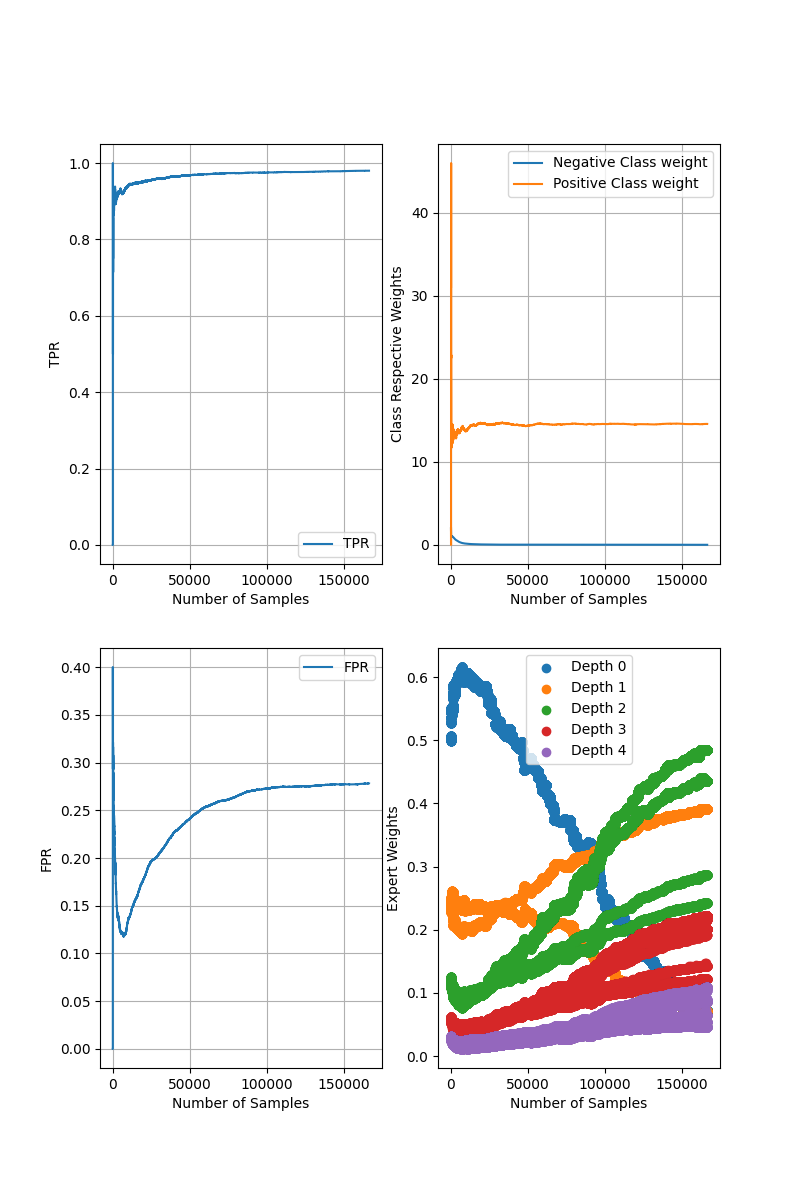
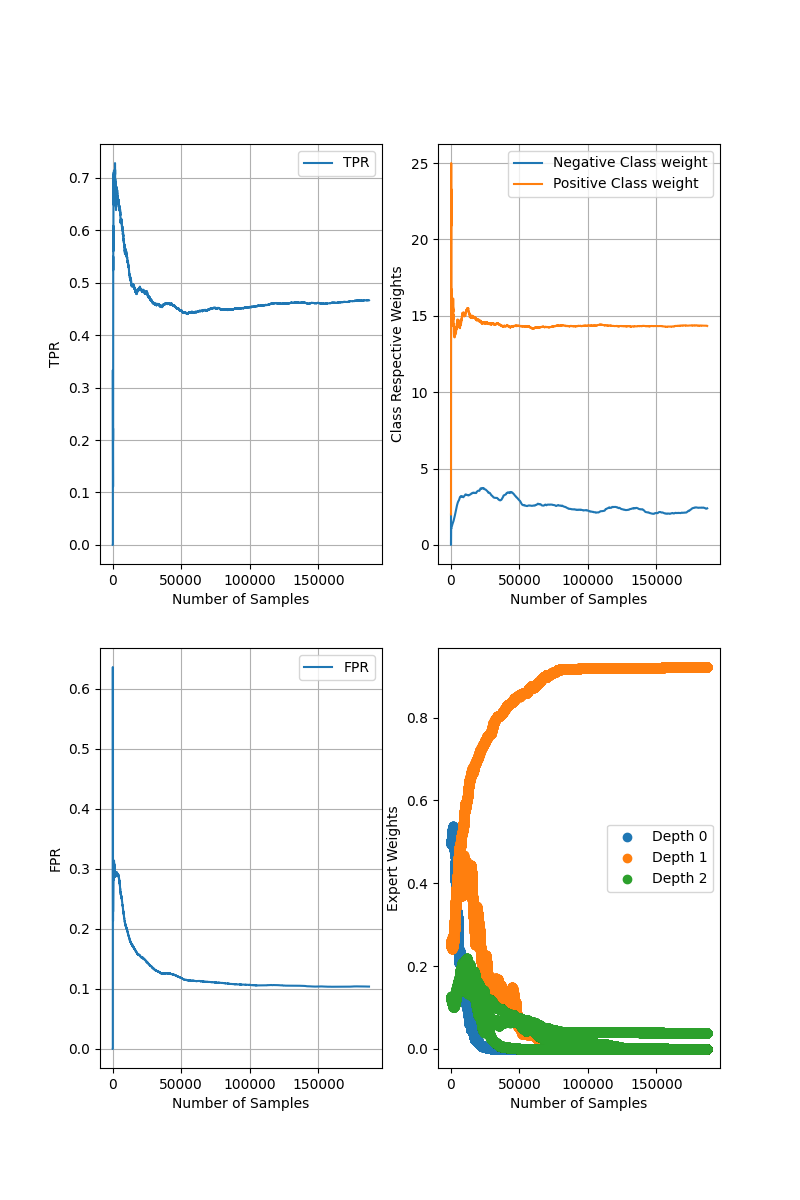
added partition weight results

diff --git a/main_video.py b/main_video.py
@@ -24,7 +24,7 @@ X_test[:,2:] = sc.transform (X_test[:,2:])
 
 # classifier definition
 # Note that cross validation is not applied here, it will be implemented in the future versions
-TreeOlnp = tree_olnp(tfpr_ = 0.3, tree_depth_ = 5, beta_init_= 200, sigmoid_h_ = -2, node_loss_constant_ = 2, projection_type_ = 'manual', max_row_=240, max_col_=360)
+TreeOlnp = tree_olnp(tfpr_ = 0.1, tree_depth_ = 5, beta_init_= 200, sigmoid_h_ = -2, node_loss_constant_ = 2, projection_type_ = 'manual', max_row_=240, max_col_=360)
 
 # training
 TreeOlnp.fit(X_train, y_train)
